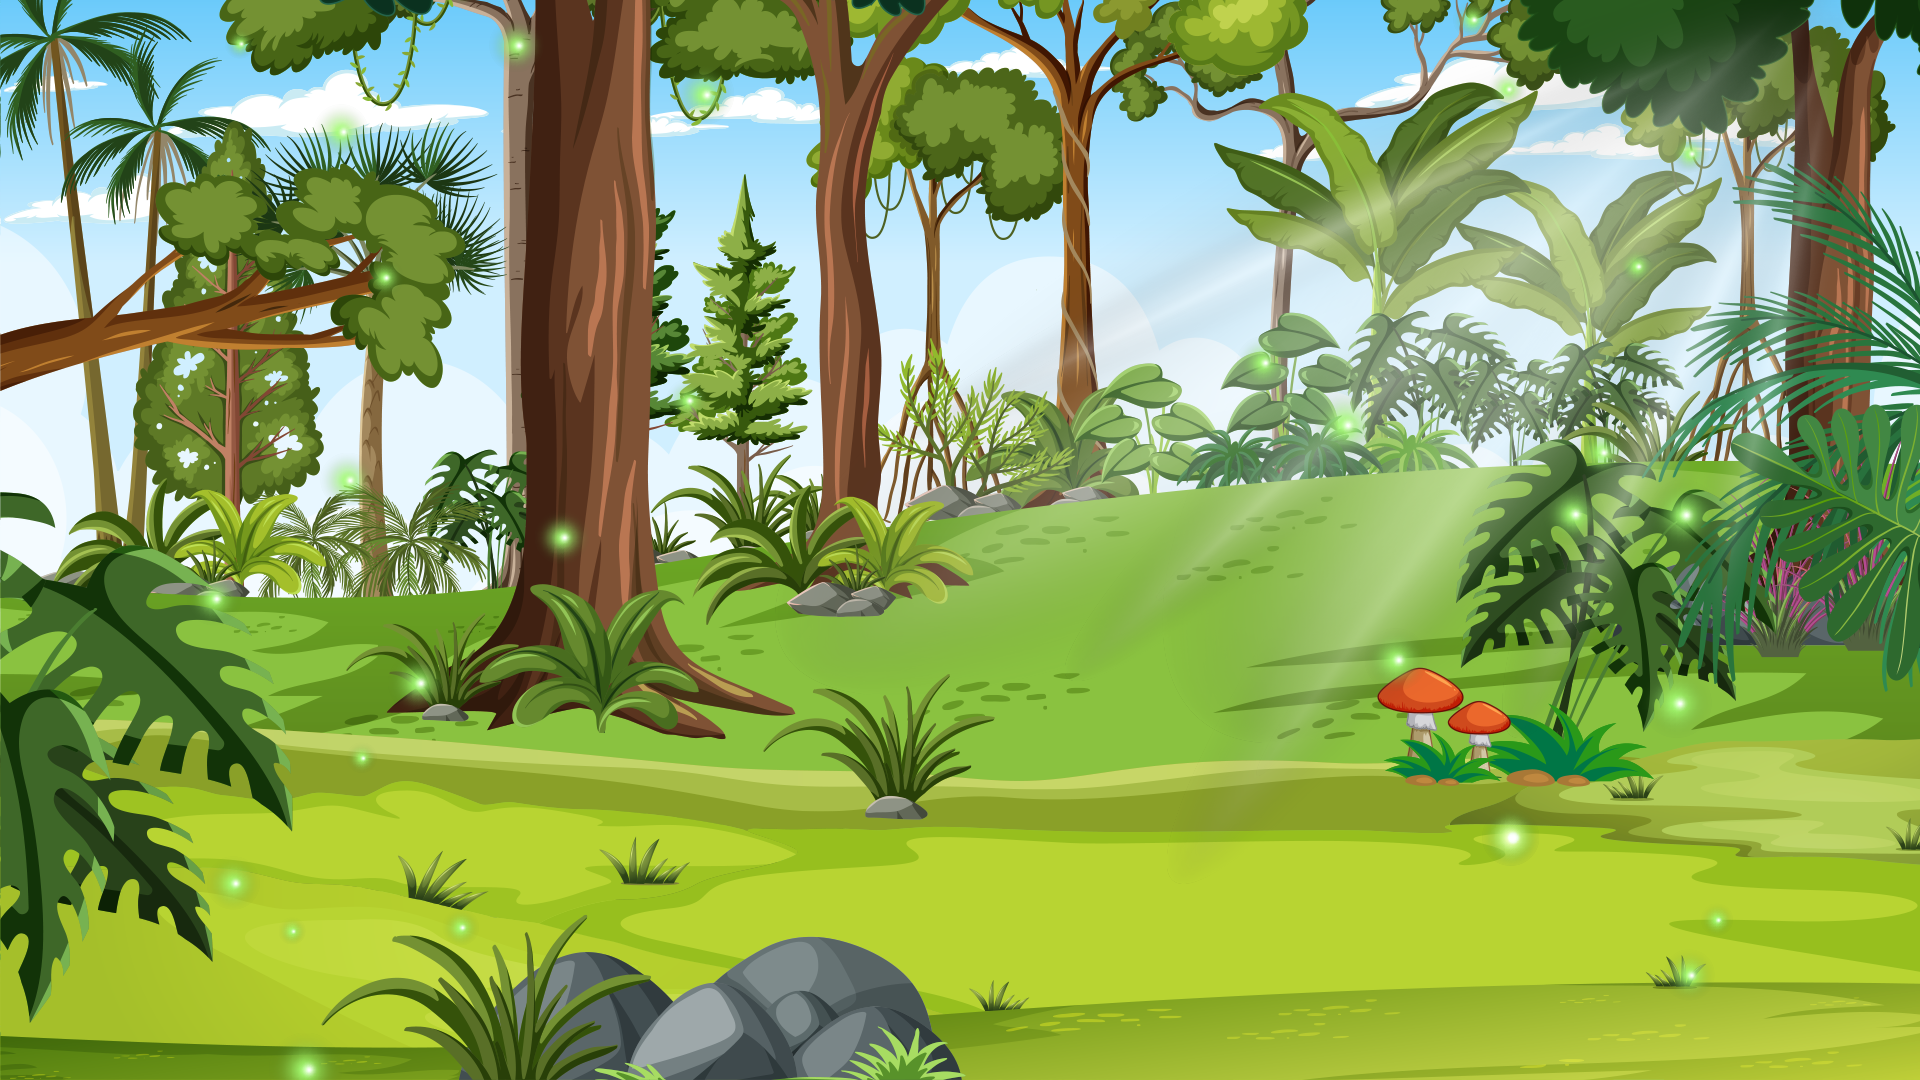
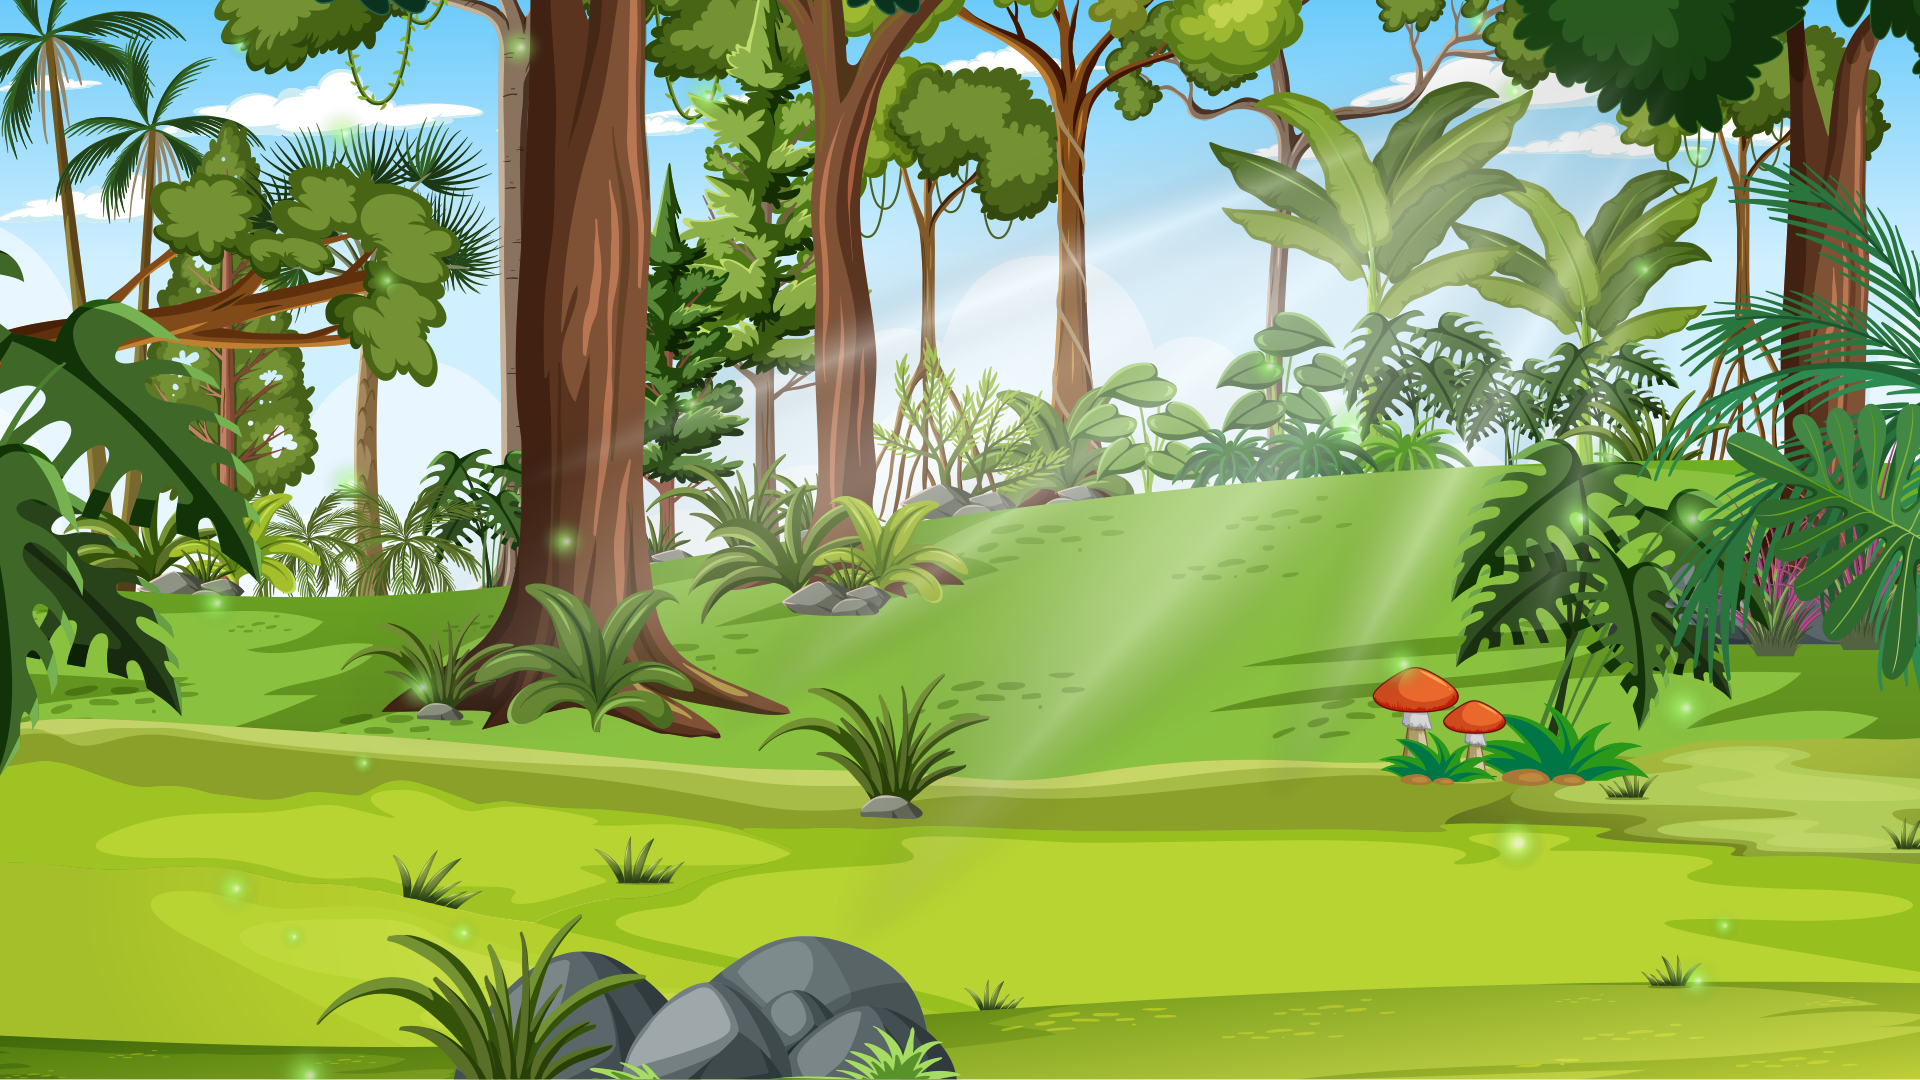
v0.3.000 - Gameover screen redesign, player exit retry, splash fade, UI polish

diff --git a/math-wizard.py b/math-wizard.py
@@ -84,6 +84,8 @@ class Gioco:
         self.state = "splash"
         self.splash_start = pygame.time.get_ticks()
         self.splash_skip = False
+        self.player_exit_retry = False
+        self.ritorno_gioco = False
         self.debug = False
         self.debug_buf = ""
 
@@ -246,7 +248,7 @@ class Gioco:
                 self.storia_entries = []
         self.storia_idx = 0
 
-        self.version = "0.2.020"
+        self.version = "0.3.000"
 
         self.profili = []
         self.profilo_corrente = ""
@@ -464,6 +466,11 @@ class Gioco:
                 self.storia_fase = "enter"
                 self.storia_fade_speed = 1
                 self.storia_primo_step = False
+            elif self.storia_fade_alpha >= 255 and self.storia_fade_color == (255, 255, 255):
+                self.storia_fade_alpha = 255
+                self.storia_fade_color = (255, 255, 255)
+                self.storia_fase = "enter"
+                self.storia_fade_speed = 3
             else:
                 self.storia_fade_alpha = 80
                 self.storia_fade_color = (0, 0, 0)
@@ -748,6 +755,7 @@ class Gioco:
                         if self.storia_caratteri_mostrati < len(self.storia_testo_completo):
                             self.storia_caratteri_mostrati = len(self.storia_testo_completo)
                         else:
+                            self.storia_fade_speed = 3
                             self.storia_fase = "exit"
 
         if event.type == pygame.MOUSEBUTTONDOWN:
@@ -757,11 +765,15 @@ class Gioco:
                     if self.storia_caratteri_mostrati < len(self.storia_testo_completo):
                         self.storia_caratteri_mostrati = len(self.storia_testo_completo)
                     else:
+                        self.storia_fade_speed = 3
                         self.storia_fase = "exit"
             elif self.state == "gameover":
                 if hasattr(self, 'gameover_buttons'):
                     if self.gameover_buttons.get("restart") and self.gameover_buttons["restart"].collidepoint(mx, my):
-                        self.avvia_partita()
+                        self.player_exit_retry = True
+                        self.player_exit_start = pygame.time.get_ticks()
+                        self.player_exit_x = 75
+                        self.state = "player_exit"
                         return
                     if self.gameover_buttons.get("menu") and self.gameover_buttons["menu"].collidepoint(mx, my):
                         self.state = "menu"
@@ -771,7 +783,7 @@ class Gioco:
                 if 340 - 10 <= mx <= 340 + 580 and 280 - 10 <= my <= 280 + 74:
                     self.modalita = "auto"
                     self.avvia_partita()
-                # Opzione 2: Livello Fisso (midleft 340, 380)
+                # Opzione 2: Allenamento (midleft 340, 380)
                 elif 340 - 10 <= mx <= 340 + 580 and 380 - 10 <= my <= 380 + 74:
                     self.modalita = "fisso"
                     self.avvia_partita()
@@ -831,22 +843,22 @@ class Gioco:
                     elif 289 <= my <= 353:
                         self.mostra_config()
             elif self.state == "opzioni_auto":
-                tx = SCREEN_WIDTH // 2 + 20
+                sx = 360
                 lw, vw, rw = 30, 40, 30
                 # Timeout
-                if tx - 2 <= mx <= tx + lw + vw + rw + 2 and 218 <= my <= 256:
+                if sx - 2 <= mx <= sx + lw + vw + rw + 2 and 198 <= my <= 236:
                     self.opzioni_cursor = 0
-                    if mx < tx + lw:
+                    if mx < sx + lw:
                         self.auto_timeout = max(3, self.auto_timeout - 1)
-                    elif mx >= tx + lw + vw:
+                    elif mx >= sx + lw + vw:
                         self.auto_timeout = min(99, self.auto_timeout + 1)
                     self.salva_config_profilo()
                 # Livello iniziale
-                elif tx - 2 <= mx <= tx + lw + vw + rw + 2 and 288 <= my <= 326:
+                elif sx - 2 <= mx <= sx + lw + vw + rw + 2 and 268 <= my <= 306:
                     self.opzioni_cursor = 1
-                    if mx < tx + lw:
+                    if mx < sx + lw:
                         self.livello_iniziale = max(0, self.livello_iniziale - 1)
-                    elif mx >= tx + lw + vw:
+                    elif mx >= sx + lw + vw:
                         self.livello_iniziale = min(len(LIVELLI) - 1, self.livello_iniziale + 1)
                     self.salva_config_profilo()
                 # CONFERMA
@@ -1226,7 +1238,15 @@ class Gioco:
         if self.state == "player_exit":
             elapsed = pygame.time.get_ticks() - self.player_exit_start
             if elapsed >= 4000:
-                if self.modalita == "auto" and self.ritorno_gioco:
+                if self.player_exit_retry:
+                    self.player_exit_retry = False
+                    self.vite = VITE_MAGO
+                    self.game_over = False
+                    self.corretto = 0
+                    self.stats = {}
+                    self.state = "gioco"
+                    self.avvia_livello()
+                elif self.modalita == "auto" and self.ritorno_gioco:
                     self.ritorno_gioco = False
                     if self.storia_entries:
                         self.storia_idx += 1
@@ -1294,7 +1314,7 @@ class Gioco:
         elif self.state == "profile_select":
             self.screen.blit(self.bg_menu, (0, 0))
             self.disegna_profilo()
-        elif self.state == "gioco" and not self.game_over:
+        elif self.state == "gioco":
             self.disegna_gioco()
         elif self.state == "player_exit":
             self.disegna_player_exit()
@@ -1327,8 +1347,8 @@ class Gioco:
 
         if self.splash_skip:
             alpha = min(255, int(elapsed / 500 * 255))
-        elif elapsed < 1000:
-            alpha = 255 - int(255 * elapsed / 1000)
+        elif elapsed < 2000:
+            alpha = 255 - int(255 * elapsed / 2000)
         elif elapsed > 4000:
             alpha = int(255 * (elapsed - 4000) / 1000)
         else:
@@ -1439,7 +1459,7 @@ class Gioco:
 
         opzioni = [
             ("Storia", "Livelli progressivi automatici, operandi 0-12, level-up basato su precisione e velocita"),
-            ("Livello Fisso", "Scegli operandi, numero domande e sfida a difficolta costante"),
+            ("Allenamento", "Scegli operandi, numero domande e sfida a difficolta costante"),
         ]
         for i, (tit, desc) in enumerate(opzioni):
             y = 280 + i * 100
@@ -1483,7 +1503,7 @@ class Gioco:
         rect = titolo.get_rect(center=(SCREEN_WIDTH // 2, 80))
         self.screen.blit(titolo, rect)
 
-        voci = ["Storia", "Livello Fisso"]
+        voci = ["Storia", "Allenamento"]
         for i, voce in enumerate(voci):
             y = 220 + i * 80
             txt = self.font_grande.render(voce, True, WHITE)
@@ -1517,61 +1537,58 @@ class Gioco:
         self.screen.blit(titolo, rect)
 
         # Timeout
-        y = 220
-        label_t = self.font_medio.render("Timeout (secondi)", True, WHITE)
-        rect = label_t.get_rect(midleft=(SCREEN_WIDTH // 2 - 200, y + 17))
+        y = 200
+        label_t = self.font_tiny.render("Timeout (secondi)", True, WHITE)
+        rect = label_t.get_rect(midleft=(80, y + 17))
         self.screen.blit(label_t, rect)
         focused = self.opzioni_cursor == 0
-        tx = SCREEN_WIDTH // 2 + 20
+        sx = 360
         lw, vw, rw = 30, 40, 30
-        total = lw + vw + rw
-        minus_rect = pygame.Rect(tx, y, lw, 34)
-        plus_rect = pygame.Rect(tx + lw + vw, y, rw, 34)
-        if focused:
-            pygame.draw.rect(self.screen, (255, 255, 100), (tx - 2, y - 2, total + 4, 38), 3, border_radius=4)
+        minus_rect = pygame.Rect(sx, y, lw, 34)
+        plus_rect = pygame.Rect(sx + lw + vw, y, rw, 34)
         hover_minus = minus_rect.collidepoint(mx, my)
         hover_plus = plus_rect.collidepoint(mx, my)
+        if focused:
+            pygame.draw.rect(self.screen, (255, 255, 100), (sx - 2, y - 2, lw + vw + rw + 4, 38), 3, border_radius=4)
         pygame.draw.rect(self.screen, (90, 90, 100) if hover_minus else (70, 70, 80), minus_rect, border_radius=4)
-        pygame.draw.rect(self.screen, (40, 40, 50), (tx + lw, y, vw, 34))
+        pygame.draw.rect(self.screen, (40, 40, 50), (sx + lw, y, vw, 34))
         pygame.draw.rect(self.screen, (90, 90, 100) if hover_plus else (70, 70, 80), plus_rect, border_radius=4)
         if hover_minus:
             pygame.draw.rect(self.screen, GOLD, minus_rect, 2, border_radius=4)
         if hover_plus:
             pygame.draw.rect(self.screen, GOLD, plus_rect, 2, border_radius=4)
-        minus = self.font_medio.render("-", True, WHITE)
-        plus = self.font_medio.render("+", True, WHITE)
-        self.screen.blit(minus, minus.get_rect(center=(tx + lw // 2, y + 17)))
-        self.screen.blit(plus, plus.get_rect(center=(tx + lw + vw + rw // 2, y + 17)))
-        t_surf = self.font_grande.render(str(self.auto_timeout), True, WHITE)
-        self.screen.blit(t_surf, t_surf.get_rect(center=(tx + lw + vw // 2, y + 17)))
+        minus = self.font_tiny.render("-", True, WHITE)
+        plus = self.font_tiny.render("+", True, WHITE)
+        self.screen.blit(minus, minus.get_rect(center=(sx + lw // 2, y + 17)))
+        self.screen.blit(plus, plus.get_rect(center=(sx + lw + vw + rw // 2, y + 17)))
+        t_surf = self.font_tiny.render(str(self.auto_timeout), True, WHITE)
+        self.screen.blit(t_surf, t_surf.get_rect(center=(sx + lw + vw // 2, y + 17)))
 
         # Livello iniziale
-        y = 290
-        label_l = self.font_medio.render("Livello iniziale", True, WHITE)
-        rect = label_l.get_rect(midleft=(SCREEN_WIDTH // 2 - 200, y + 17))
+        y = 270
+        label_l = self.font_tiny.render("Livello iniziale", True, WHITE)
+        rect = label_l.get_rect(midleft=(80, y + 17))
         self.screen.blit(label_l, rect)
         focused = self.opzioni_cursor == 1
-        lw, vw, rw = 30, 40, 30
-        total = lw + vw + rw
-        minus_rect2 = pygame.Rect(tx, y, lw, 34)
-        plus_rect2 = pygame.Rect(tx + lw + vw, y, rw, 34)
-        if focused:
-            pygame.draw.rect(self.screen, (255, 255, 100), (tx - 2, y - 2, total + 4, 38), 3, border_radius=4)
+        minus_rect2 = pygame.Rect(sx, y, lw, 34)
+        plus_rect2 = pygame.Rect(sx + lw + vw, y, rw, 34)
         hover_minus2 = minus_rect2.collidepoint(mx, my)
         hover_plus2 = plus_rect2.collidepoint(mx, my)
+        if focused:
+            pygame.draw.rect(self.screen, (255, 255, 100), (sx - 2, y - 2, lw + vw + rw + 4, 38), 3, border_radius=4)
         pygame.draw.rect(self.screen, (90, 90, 100) if hover_minus2 else (70, 70, 80), minus_rect2, border_radius=4)
-        pygame.draw.rect(self.screen, (40, 40, 50), (tx + lw, y, vw, 34))
+        pygame.draw.rect(self.screen, (40, 40, 50), (sx + lw, y, vw, 34))
         pygame.draw.rect(self.screen, (90, 90, 100) if hover_plus2 else (70, 70, 80), plus_rect2, border_radius=4)
         if hover_minus2:
             pygame.draw.rect(self.screen, GOLD, minus_rect2, 2, border_radius=4)
         if hover_plus2:
             pygame.draw.rect(self.screen, GOLD, plus_rect2, 2, border_radius=4)
-        minus = self.font_medio.render("-", True, WHITE)
-        plus = self.font_medio.render("+", True, WHITE)
-        self.screen.blit(minus, minus.get_rect(center=(tx + lw // 2, y + 17)))
-        self.screen.blit(plus, plus.get_rect(center=(tx + lw + vw + rw // 2, y + 17)))
-        l_surf = self.font_grande.render(str(self.livello_iniziale + 1), True, WHITE)
-        self.screen.blit(l_surf, l_surf.get_rect(center=(tx + lw + vw // 2, y + 17)))
+        minus = self.font_tiny.render("-", True, WHITE)
+        plus = self.font_tiny.render("+", True, WHITE)
+        self.screen.blit(minus, minus.get_rect(center=(sx + lw // 2, y + 17)))
+        self.screen.blit(plus, plus.get_rect(center=(sx + lw + vw + rw // 2, y + 17)))
+        l_surf = self.font_tiny.render(str(self.livello_iniziale + 1), True, WHITE)
+        self.screen.blit(l_surf, l_surf.get_rect(center=(sx + lw + vw // 2, y + 17)))
 
         # CONFERMA
         y_conf = 400
@@ -1905,7 +1922,7 @@ class Gioco:
         else:
             stato = self.font_piccolo.render(f"Domanda {self.domande_fatte}/{self.domande_totali}", True, WHITE)
             self.screen.blit(stato, (20, 20))
-            mode_txt = "Livello Fisso"
+            mode_txt = "Allenamento"
         mode = self.font_piccolo.render(mode_txt, True, GRAY)
         rect_m = mode.get_rect(midright=(SCREEN_WIDTH - 20, 20))
         self.screen.blit(mode, rect_m)
@@ -1980,7 +1997,7 @@ class Gioco:
             dx, dy = 20, 80
             lines = [
                 "DEBUG",
-                f"Modalita: {'Storia' if self.modalita == 'auto' else 'Livello Fisso'}",
+                f"Modalita: {'Storia' if self.modalita == 'auto' else 'Allenamento'}",
                 f"Domanda attiva: {self.domanda_attiva}",
                 f"Feedback: {self.feedback}",
                 f"Attendi invio: {self.attendi_invio}",
@@ -2090,16 +2107,26 @@ class Gioco:
             self.screen.blit(fade_surf, (0, 0))
 
     def disegna_player_exit(self):
-        self.screen.blit(self.gioco_bg, (0, 0))
+        if self.player_exit_retry:
+            self.screen.blit(self.gioco_bg, (0, 0))
+            overlay = pygame.Surface((SCREEN_WIDTH, SCREEN_HEIGHT))
+            overlay.set_alpha(200)
+            overlay.fill(BG_DARK)
+            self.screen.blit(overlay, (0, 0))
+        else:
+            self.screen.blit(self.gioco_bg, (0, 0))
         elapsed = pygame.time.get_ticks() - self.player_exit_start
         progress = min(elapsed / 4000, 1.0)
-        start_x = 75
-        end_x = SCREEN_WIDTH + 200
-        self.player_exit_x = start_x + (end_x - start_x) * progress
         frame_idx = (elapsed // 200) % 4
         data = self.char_data.get(self.config_genere, self.char_data["F"])
         char_img = data["run"][frame_idx]
         cw, ch = char_img.get_size()
+        if self.player_exit_retry:
+            start_x = SCREEN_WIDTH // 2 - cw // 2
+        else:
+            start_x = 75
+        end_x = SCREEN_WIDTH + 200
+        self.player_exit_x = start_x + (end_x - start_x) * progress
         base_y = SCREEN_HEIGHT // 2 - ch // 2
         wy = base_y + 130
         self.screen.blit(char_img, (self.player_exit_x, wy))
@@ -2111,6 +2138,83 @@ class Gioco:
         overlay.fill(BG_DARK)
         self.screen.blit(overlay, (0, 0))
 
+        if self.modalita == "auto":
+            self.disegna_gameover_storia()
+        else:
+            self.disegna_gameover_fisso()
+
+    def disegna_gameover_storia(self):
+        if self.vite <= 0:
+            titolo = self.font_titolo.render("GAME OVER", True, RED)
+        else:
+            titolo = self.font_titolo.render("PARTITA TERMINATA", True, GOLD)
+        rect = titolo.get_rect(center=(SCREEN_WIDTH // 2, 50))
+        self.screen.blit(titolo, rect)
+
+        tot_corrette = sum(v["corrette"] for v in self.stats.values())
+        tot_sbagliate = sum(v["sbagliate"] for v in self.stats.values())
+        tempo_medio = sum(self.tempi_risposta) / len(self.tempi_risposta) if self.tempi_risposta else 0
+
+        righe = [
+            (f"Corrette: {tot_corrette}", GREEN),
+            (f"Sbagliate: {tot_sbagliate}", RED),
+            (f"Livello raggiunto: {self.livello + 1}/{len(LIVELLI)}", WHITE),
+            (f"Tempo medio: {tempo_medio:.1f}s", WHITE),
+        ]
+        y = 110
+        for testo, colore in righe:
+            surf = self.font_medio.render(testo, True, colore)
+            rect = surf.get_rect(center=(SCREEN_WIDTH // 2, y))
+            self.screen.blit(surf, rect)
+            y += 46
+
+        data = self.char_data.get(self.config_genere, self.char_data["F"])
+        char_img = data["hit"] if self.vite <= 0 else data["idle"][0]
+        char_x = SCREEN_WIDTH // 2 - char_img.get_width() // 2
+        char_y = y + 20
+        self.screen.blit(char_img, (char_x, char_y))
+
+        if self.vite <= 0:
+            testo = f"{self.profilo_corrente} si è impegnat-o-a- parecchio, ma gli Hop diventano man mano più impegnativi. Serve più allenamento!"
+            m = self.config_genere == "M"
+            testo = re.sub(r'-([^-]+)-([^-]+)-', lambda g: g.group(1) if m else g.group(2), testo)
+        else:
+            testo = f"Complimenti {self.profilo_corrente}! Hai completato tutti i livelli!"
+        lines = []
+        max_w = SCREEN_WIDTH - 120
+        for parola in testo.split():
+            if not lines:
+                lines.append(parola)
+            else:
+                test = lines[-1] + " " + parola
+                if self.font_piccolo.size(test)[0] > max_w:
+                    lines.append(parola)
+                else:
+                    lines[-1] = test
+
+        y_text = char_y + char_img.get_height() + 20
+        for line in lines:
+            surf = self.font_piccolo.render(line, True, WHITE)
+            rect = surf.get_rect(center=(SCREEN_WIDTH // 2, y_text))
+            self.screen.blit(surf, rect)
+            y_text += 35
+
+        mx, my = pygame.mouse.get_pos()
+        y_btn = y_text + 20
+        self.gameover_buttons = {}
+        for i, (label, action) in enumerate([("RIPROVA", "restart"), ("MENU PRINCIPALE", "menu")]):
+            bx = SCREEN_WIDTH // 2 - 100 + i * 210
+            btn_rect = pygame.Rect(bx, y_btn, 180, 36)
+            hovered = btn_rect.collidepoint(mx, my)
+            bg_col = (80, 90, 100) if hovered else (60, 60, 70)
+            pygame.draw.rect(self.screen, bg_col, btn_rect, border_radius=6)
+            if hovered:
+                pygame.draw.rect(self.screen, GOLD, btn_rect, 2, border_radius=6)
+            surf = self.font_piccolo.render(label, True, WHITE)
+            self.screen.blit(surf, surf.get_rect(center=btn_rect.center))
+            self.gameover_buttons[action] = btn_rect
+
+    def disegna_gameover_fisso(self):
         if self.vite <= 0:
             titolo = self.font_titolo.render("GAME OVER", True, RED)
         else:
@@ -2128,8 +2232,6 @@ class Gioco:
             (f"Vite rimaste: {self.vite}", YELLOW),
             (f"Tempo medio: {tempo_medio:.1f}s", WHITE),
         ]
-        if self.modalita == "auto":
-            righe.insert(2, (f"Livello raggiunto: {self.livello + 1}/{len(LIVELLI)}", WHITE))
         y = 110
         for testo, colore in righe:
             surf = self.font_medio.render(testo, True, colore)
@@ -2179,7 +2281,7 @@ class Gioco:
             extra = ""
             if self.operazione == "sottrazione" and getattr(self, 'differenza_positiva', False):
                 extra = " | Diff. positiva: ON"
-            riga = f"{now} | Livello Fisso | {op_txt} | Corrette: {tot_corrette} | Sbagliate: {tot_sbagliate} | Pool A: [{pool_a_txt}] | Pool B: [{pool_b_txt}] | Domande: {self.domande_fatte}/{self.domande_totali} | Tempo medio: {tempo_medio:.1f}s{extra}"
+            riga = f"{now} | Allenamento | {op_txt} | Corrette: {tot_corrette} | Sbagliate: {tot_sbagliate} | Pool A: [{pool_a_txt}] | Pool B: [{pool_b_txt}] | Domande: {self.domande_fatte}/{self.domande_totali} | Tempo medio: {tempo_medio:.1f}s{extra}"
         path = self.percorso_sessioni()
         with open(path, "a", encoding="utf-8") as f:
             f.write(riga + "\n")